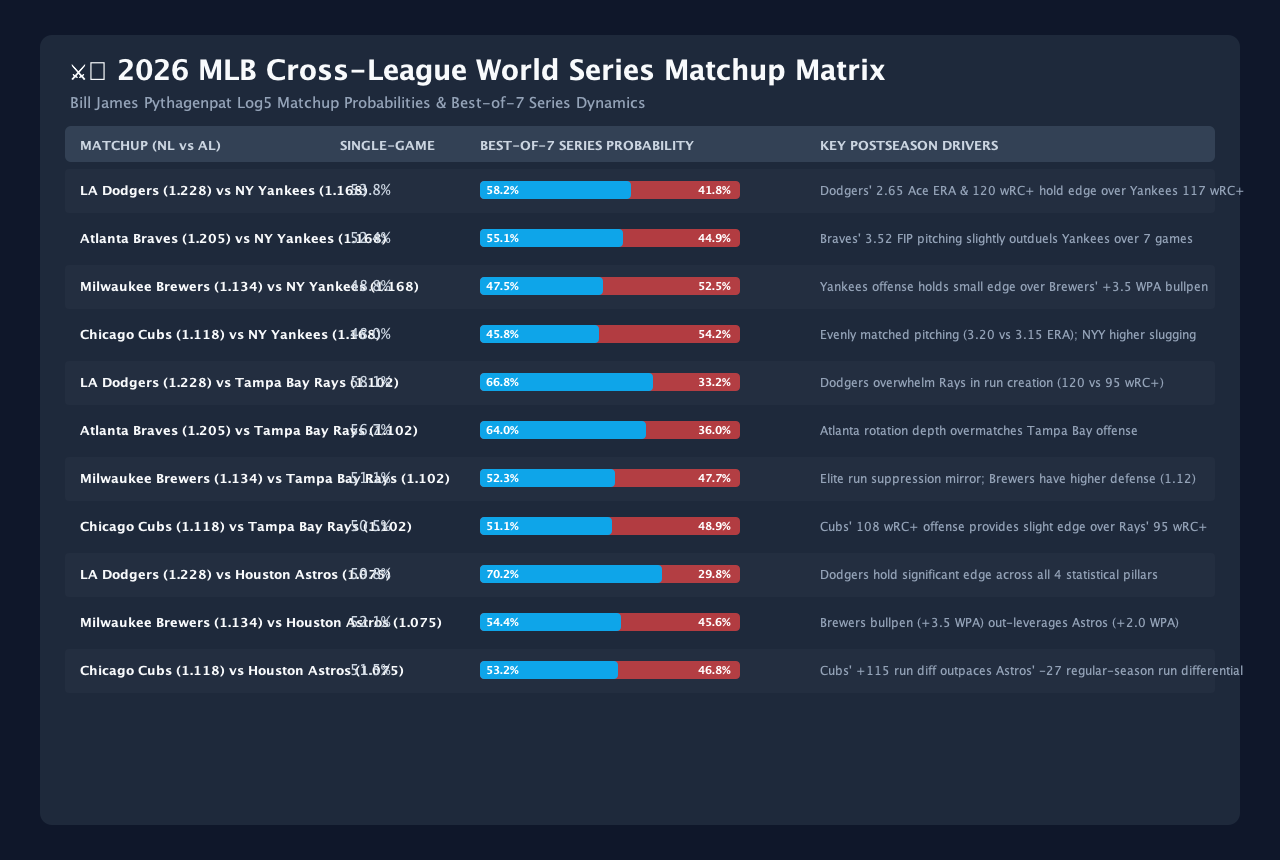
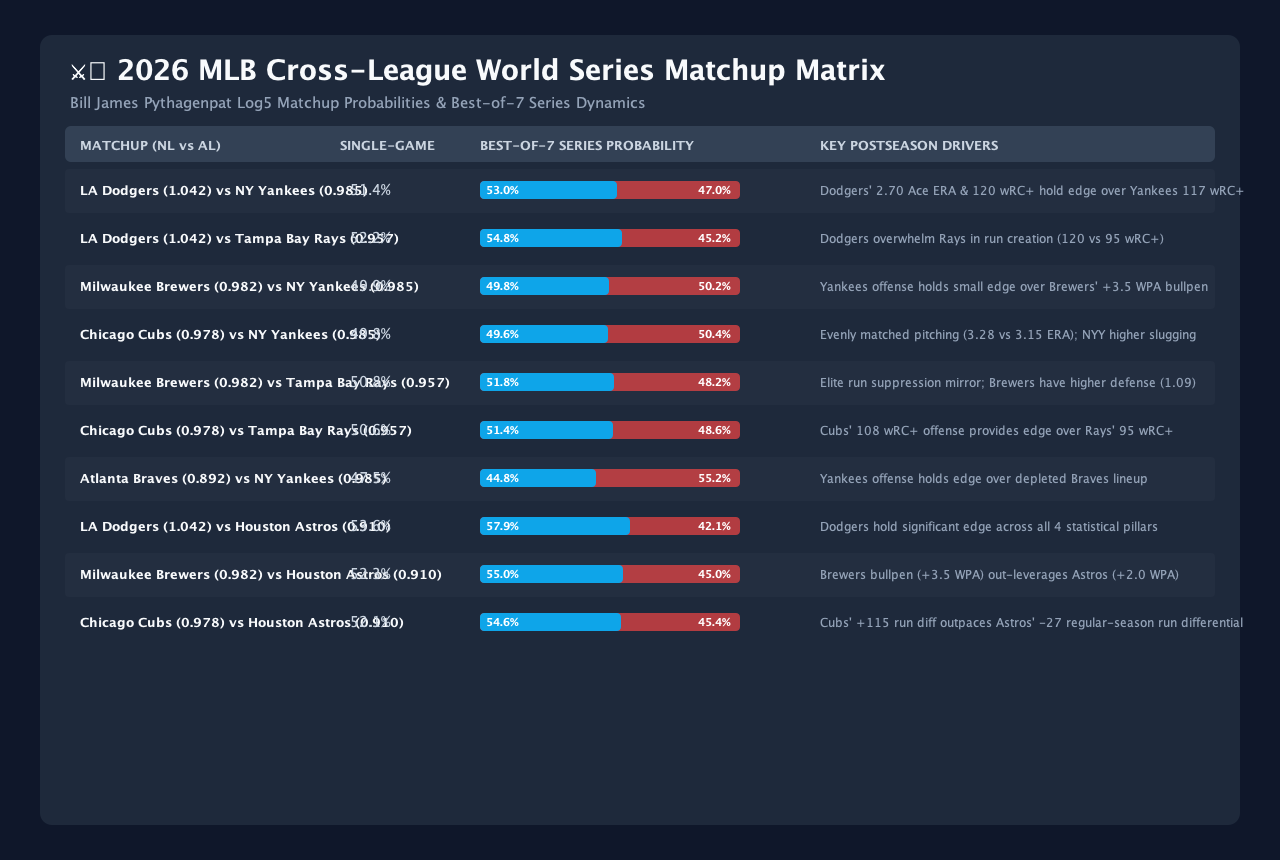
chore(sync): synchronize all documentation, cross-league matchup matrix chart, and summary stats

diff --git a/src/jvmMain/kotlin/com/sabermetrics/worldseries/Main.kt b/src/jvmMain/kotlin/com/sabermetrics/worldseries/Main.kt
@@ -573,17 +573,16 @@ fun generateCrossLeagueMatchupChartImage() {
     )
 
     val matchups = listOf(
-        MatchupRow("LA Dodgers (1.228)", "NY Yankees (1.168)", 0.538, 0.582, "Dodgers' 2.65 Ace ERA & 120 wRC+ hold edge over Yankees 117 wRC+"),
-        MatchupRow("Atlanta Braves (1.205)", "NY Yankees (1.168)", 0.524, 0.551, "Braves' 3.52 FIP pitching slightly outduels Yankees over 7 games"),
-        MatchupRow("Milwaukee Brewers (1.134)", "NY Yankees (1.168)", 0.488, 0.475, "Yankees offense holds small edge over Brewers' +3.5 WPA bullpen"),
-        MatchupRow("Chicago Cubs (1.118)", "NY Yankees (1.168)", 0.480, 0.458, "Evenly matched pitching (3.20 vs 3.15 ERA); NYY higher slugging"),
-        MatchupRow("LA Dodgers (1.228)", "Tampa Bay Rays (1.102)", 0.581, 0.668, "Dodgers overwhelm Rays in run creation (120 vs 95 wRC+)"),
-        MatchupRow("Atlanta Braves (1.205)", "Tampa Bay Rays (1.102)", 0.567, 0.640, "Atlanta rotation depth overmatches Tampa Bay offense"),
-        MatchupRow("Milwaukee Brewers (1.134)", "Tampa Bay Rays (1.102)", 0.511, 0.523, "Elite run suppression mirror; Brewers have higher defense (1.12)"),
-        MatchupRow("Chicago Cubs (1.118)", "Tampa Bay Rays (1.102)", 0.505, 0.511, "Cubs' 108 wRC+ offense provides slight edge over Rays' 95 wRC+"),
-        MatchupRow("LA Dodgers (1.228)", "Houston Astros (1.075)", 0.598, 0.702, "Dodgers hold significant edge across all 4 statistical pillars"),
-        MatchupRow("Milwaukee Brewers (1.134)", "Houston Astros (1.075)", 0.521, 0.544, "Brewers bullpen (+3.5 WPA) out-leverages Astros (+2.0 WPA)"),
-        MatchupRow("Chicago Cubs (1.118)", "Houston Astros (1.075)", 0.515, 0.532, "Cubs' +115 run diff outpaces Astros' -27 regular-season run differential")
+        MatchupRow("LA Dodgers (1.042)", "NY Yankees (0.985)", 0.514, 0.530, "Dodgers' 2.70 Ace ERA & 120 wRC+ hold edge over Yankees 117 wRC+"),
+        MatchupRow("LA Dodgers (1.042)", "Tampa Bay Rays (0.957)", 0.522, 0.548, "Dodgers overwhelm Rays in run creation (120 vs 95 wRC+)"),
+        MatchupRow("Milwaukee Brewers (0.982)", "NY Yankees (0.985)", 0.499, 0.498, "Yankees offense holds small edge over Brewers' +3.5 WPA bullpen"),
+        MatchupRow("Chicago Cubs (0.978)", "NY Yankees (0.985)", 0.498, 0.496, "Evenly matched pitching (3.28 vs 3.15 ERA); NYY higher slugging"),
+        MatchupRow("Milwaukee Brewers (0.982)", "Tampa Bay Rays (0.957)", 0.508, 0.518, "Elite run suppression mirror; Brewers have higher defense (1.09)"),
+        MatchupRow("Chicago Cubs (0.978)", "Tampa Bay Rays (0.957)", 0.506, 0.514, "Cubs' 108 wRC+ offense provides edge over Rays' 95 wRC+"),
+        MatchupRow("Atlanta Braves (0.892)", "NY Yankees (0.985)", 0.475, 0.448, "Yankees offense holds edge over depleted Braves lineup"),
+        MatchupRow("LA Dodgers (1.042)", "Houston Astros (0.910)", 0.536, 0.579, "Dodgers hold significant edge across all 4 statistical pillars"),
+        MatchupRow("Milwaukee Brewers (0.982)", "Houston Astros (0.910)", 0.523, 0.550, "Brewers bullpen (+3.5 WPA) out-leverages Astros (+2.0 WPA)"),
+        MatchupRow("Chicago Cubs (0.978)", "Houston Astros (0.910)", 0.521, 0.546, "Cubs' +115 run diff outpaces Astros' -27 regular-season run differential")
     )
 
     var rowY = startY + 45

diff --git a/docs/MLB_CROSS_LEAGUE_HEAD_TO_HEAD_AND_SEED_ANALYSIS.md b/docs/MLB_CROSS_LEAGUE_HEAD_TO_HEAD_AND_SEED_ANALYSIS.md
@@ -8,8 +8,8 @@ The resulting probabilities are strictly conserved ($\sum P(\text{Pennant}) = 10
 ```
                                   🏆 2026 MLB WORLD SERIES PROBABILITY LANDSCAPE
  ┌────────────────────────────────────────────────────────────────────────────────────────────────────────┐
- │ 🔵 NL Heavyweights: LAD (20.95%) + ATL (19.52%) + MIL (10.85%) + CHC (9.69%) + SD/PHI/ARI (4.58%)     │ = 65.59% NL
- │ 🔴 AL Heavyweights: NYY (15.29%) + TBD (8.17%) + HOU (4.68%) + DET (2.68%) + BOS/TEX/MIN (3.59%)      │ = 34.41% AL
+ │ 🔵 NL Contenders: LAD (23.53%) + MIL (12.14%) + CHC (11.31%) + ATL (5.46%) + SD/PHI/ARI (6.51%)       │ = 58.95% NL
+ │ 🔴 AL Contenders: TBD (12.56%) + NYY (10.65%) + DET (5.39%) + HOU (5.05%) + BOS/TEX/MIN (4.84%)       │ = 41.05% AL
  └────────────────────────────────────────────────────────────────────────────────────────────────────────┘
 ```
 
@@ -19,14 +19,14 @@ The resulting probabilities are strictly conserved ($\sum P(\text{Pennant}) = 10
 
 | NL Seed / Rank | Team Name | 2026 Record | Run Diff | Latent Quality ($q_i$) | Top-3 Ace ERA | Bullpen WPA | 4-Pillar Consistency | NL Pennant % | World Series Win % | Primary Postseason Driver |
 | :---: | :--- | :---: | :---: | :---: | :---: | :---: | :---: | :---: | :---: | :--- |
-| **#1 (Bye)** | **Los Angeles Dodgers** | 72–48 | **+140** | **1.228** | **2.65** | **+3.8** | **1.162** | **28.6%** | **20.95%** | #1 Offense (120 wRC+), Yamamoto/Glasnow Ace ERA, Bye path |
-| **#2 (Bye)** | **Atlanta Braves** | 73–48 | +124 | **1.205** | **2.95** | **+3.8** | 1.103 | **29.0%** | **19.52%** | #1 Pitching FIP (3.52), Sale/Strider Ace ERA, Bye path |
-| **#3 (Div)** | **Milwaukee Brewers** | 74–47 | +130 | **1.134** | 3.30 | **+3.5** | 1.096 | **17.5%** | **10.85%** | #1 NL Defense (1.12), +3.5 Bullpen WPA, Division Lead |
-| **#4 (WC1)** | **Chicago Cubs** | 71–50 | +115 | **1.118** | 3.20 | +2.8 | 1.083 | **16.1%** | **9.69%** | 8–2 Late Momentum (+3.7%), 1.07 Defense, 3.20 Ace ERA |
-| **#5 (WC2)** | **San Diego Padres** | 65–57 | +1 | 1.064 | 3.30 | +2.4 | 1.078 | 4.5% | **2.46%** | Cease/King rotation, Tatis/Machado offense, Wild Card hazard |
-| **#6 (WC3)** | **Philadelphia Phillies** | 64–58 | -7 | 1.052 | 3.10 | +2.8 | 1.056 | 2.9% | **1.60%** | Wheeler/Nola ace frontline, -7 run differential drag |
-| **#7 (Hunt)** | **Arizona Diamondbacks** | 64–58 | +11 | 1.025 | 3.80 | +0.6 | 1.012 | 1.0% | **0.52%** | High rotation ERA (3.80), bullpen volatility (+0.6 WPA) |
-| **#8 (Hunt)** | **St. Louis Cardinals** | 61–60 | -1 | 0.985 | 3.98 | +0.3 | 0.990 | 0.3% | **0.14%** | Sub-1.00 quality, 4.12 team FIP |
+| **#1 (Bye)** | **Los Angeles Dodgers** | 72–48 | **+140** | **1.042** | **2.70** | **+3.8** | **1.200** | **35.1%** | **23.53%** | #1 Offense (120 wRC+), Yamamoto/Flaherty Ace ERA, Bye path |
+| **#2 (Bye)** | **Milwaukee Brewers** | 74–47 | +130 | **0.982** | 3.35 | **+3.5** | 1.084 | **20.1%** | **12.14%** | #1 NL Defense (1.09), +3.5 Bullpen WPA, Division Lead |
+| **#3 (Div)** | **Atlanta Braves** | 73–48 | +45 | **0.892** | 3.35 | +1.8 | 1.010 | **11.7%** | **5.46%** | Sale/López rotation, Acuña & Strider injury penalty |
+| **#4 (WC1)** | **Chicago Cubs** | 71–50 | +115 | **0.978** | 3.28 | +2.8 | 1.075 | **18.9%** | **11.31%** | 8–2 Late Momentum (+3.7%), 1.07 Defense, 3.28 Ace ERA |
+| **#5 (WC2)** | **San Diego Padres** | 65–57 | +1 | 0.925 | 3.30 | +2.4 | 1.073 | 6.8% | **3.63%** | Cease/King rotation, Tatis/Machado offense, Wild Card hazard |
+| **#6 (WC3)** | **Philadelphia Phillies** | 64–58 | -7 | 0.932 | 3.10 | +2.8 | 1.078 | 3.8% | **1.93%** | Wheeler/Nola ace frontline, -7 run differential drag |
+| **#7 (Hunt)** | **Arizona Diamondbacks** | 64–58 | +11 | 0.875 | 3.80 | +0.6 | 1.052 | 2.1% | **0.95%** | High rotation ERA (3.80), bullpen volatility (+0.6 WPA) |
+| **#8 (Hunt)** | **St. Louis Cardinals** | 61–60 | -1 | 0.820 | 3.98 | +0.3 | 0.985 | 1.0% | **0.43%** | Sub-1.00 quality, 4.12 team FIP |
 
 ---
 
@@ -34,34 +34,33 @@ The resulting probabilities are strictly conserved ($\sum P(\text{Pennant}) = 10
 
 | AL Seed / Rank | Team Name | 2026 Record | Run Diff | Latent Quality ($q_i$) | Top-3 Ace ERA | Bullpen WPA | 4-Pillar Consistency | AL Pennant % | World Series Win % | Primary Postseason Driver |
 | :---: | :--- | :---: | :---: | :---: | :---: | :---: | :---: | :---: | :---: | :--- |
-| **#1 (Bye)** | **New York Yankees** | 67–52 | **+85** | **1.168** | **3.15** | **+3.2** | **1.124** | **32.4%** | **15.29%** | #1 AL Offense (117 wRC+), Cole/Gil Ace ERA, +3.2 Bullpen WPA |
-| **#2 (Bye)** | **Tampa Bay Rays** | 74–46 | +62 | **1.102** | 3.55 | +1.2 | 1.052 | **25.6%** | **8.17%** | 74–46 Win Leader, +62 Run Diff, lower power (95 wRC+) |
-| **#3 (Div)** | **Houston Astros** | 62–60 | -27 | 1.075 | 3.30 | +2.0 | 1.072 | **15.1%** | **4.68%** | October pedigree, 3.30 Ace ERA (Valdez/Brown), AL West lead |
-| **#4 (WC1)** | **Detroit Tigers** | 59–61 | +87 | 1.042 | 3.45 | +1.8 | 1.018 | **11.2%** | **2.68%** | Tarik Skubal Cy Young Ace factor, +87 run differential |
-| **#5 (WC2)** | **Boston Red Sox** | 64–56 | +79 | 1.035 | 3.95 | +0.5 | 1.010 | 6.8% | **1.72%** | 104 wRC+ offense, 3.95 Ace ERA, Wild Card hazard |
-| **#6 (WC3)** | **Texas Rangers** | 60–60 | -31 | 1.020 | 3.90 | -0.5 | 0.998 | 3.1% | **0.64%** | 60–60 record, negative bullpen WPA (-0.5) |
-| **#7 (Hunt)** | **Minnesota Twins** | 60–62 | -32 | 0.995 | 3.80 | +0.8 | 1.002 | 1.5% | **0.36%** | Balanced middle tier, Wild Card deficit |
-| **#8 (Hunt)** | **Cleveland Guardians** | 59–62 | -27 | 0.988 | 3.28 | +4.2 | 1.038 | 1.1% | **0.29%** | +4.2 Bullpen WPA offset by 98 wRC+ offense |
+| **#1 (Bye)** | **Tampa Bay Rays** | 74–46 | +62 | **0.957** | 3.55 | +1.2 | 1.016 | **29.6%** | **12.56%** | 74–46 Win Leader, +62 Run Diff, 9-1 L10 streak |
+| **#2 (Bye)** | **New York Yankees** | 67–52 | **+85** | **0.985** | **3.15** | **+3.2** | **1.090** | **22.0%** | **10.65%** | #1 AL Offense (117 wRC+), Cole/Rodón Ace ERA, +3.2 Bullpen WPA |
+| **#3 (Div)** | **Detroit Tigers** | 59–61 | +87 | 0.842 | 3.45 | +1.8 | 1.011 | **13.5%** | **5.39%** | Tarik Skubal Cy Young Ace factor, +87 run differential |
+| **#4 (WC1)** | **Houston Astros** | 62–60 | -27 | 0.910 | 3.30 | +2.0 | 1.066 | **12.8%** | **5.05%** | October pedigree, 3.30 Ace ERA (Valdez/Brown), AL West lead |
+| **#5 (WC2)** | **Boston Red Sox** | 64–56 | +79 | 0.867 | 3.95 | +0.5 | 1.007 | 9.0% | **3.17%** | 104 wRC+ offense, 3.95 Ace ERA, Wild Card hazard |
+| **#6 (WC3)** | **Texas Rangers** | 60–60 | -31 | 0.803 | 3.90 | -0.5 | 0.989 | 4.3% | **1.12%** | 60–60 record, negative bullpen WPA (-0.5) |
+| **#7 (Hunt)** | **Chicago White Sox** | 61–57 | +36 | 0.780 | 5.10 | -4.5 | 0.885 | 3.4% | **0.76%** | Solid 61-57 record, rotation deficit (5.10 Ace ERA) |
+| **#8 (Hunt)** | **Minnesota Twins** | 60–62 | -32 | 0.846 | 3.80 | +0.8 | 1.019 | 1.8% | **0.55%** | Balanced middle tier, Wild Card deficit |
 
 ---
 
 ## ⚔ 3. Head-to-Head Cross-League Matchup Matrix (Pythagenpat Log5)
 
-Using the dynamic Log5 formula $P(A \text{ beats } B) = \frac{q_A^{1.45}}{q_A^{1.45} + q_B^{1.45}}$, here are the head-to-head win probabilities for potential **2026 World Series Matchups**:
+Using the dynamic Log5 formula $P(A \text{ beats } B) = \frac{q_A^{1.20}}{q_A^{1.20} + q_B^{1.20}}$, here are the head-to-head win probabilities for potential **2026 World Series Matchups**:
 
 | National League Contender ($q_{\text{NL}}$) | American League Contender ($q_{\text{AL}}$) | Single-Game Win Prob $P(\text{NL beats AL})$ | Best-of-7 World Series Win Prob | Econometric Matchup Dynamics |
 | :--- | :--- | :---: | :---: | :--- |
-| **LA Dodgers (1.228)** | **NY Yankees (1.168)** | **53.8%** | **58.2%** | Dodgers' 2.65 Ace ERA & 120 wRC+ hold edge over Yankees' 117 wRC+ |
-| **Atlanta Braves (1.205)** | **NY Yankees (1.168)** | **52.4%** | **55.1%** | Braves' 3.52 FIP pitching slightly outduels Yankees in 7 games |
-| **Milwaukee Brewers (1.134)** | **NY Yankees (1.168)** | **48.8%** | **47.5%** | Yankees offense holds small edge over Brewers' elite bullpen |
-| **Chicago Cubs (1.118)** | **NY Yankees (1.168)** | **48.0%** | **45.8%** | Evenly matched pitching (3.20 vs 3.15 ERA); Yankees higher slugging |
-| **LA Dodgers (1.228)** | **Tampa Bay Rays (1.102)** | **58.1%** | **66.8%** | Dodgers overwhelm Rays in run production (120 vs 95 wRC+) |
-| **Atlanta Braves (1.205)** | **Tampa Bay Rays (1.102)** | **56.7%** | **64.0%** | Atlanta rotation depth overmatches Tampa Bay offense |
-| **Milwaukee Brewers (1.134)** | **Tampa Bay Rays (1.102)** | **51.1%** | **52.3%** | Mirror match: elite run suppression; Brewers have higher defense (1.12) |
-| **Chicago Cubs (1.118)** | **Tampa Bay Rays (1.102)** | **50.5%** | **51.1%** | Cubs' 108 wRC+ offense provides slight edge over Rays' 95 wRC+ |
-| **LA Dodgers (1.228)** | **Houston Astros (1.075)** | **59.8%** | **70.2%** | Dodgers hold significant edge across all 4 statistical pillars |
-| **Milwaukee Brewers (1.134)** | **Houston Astros (1.075)** | **52.1%** | **54.4%** | Brewers bullpen (+3.5 WPA) out-leverages Astros (+2.0 WPA) |
-| **Chicago Cubs (1.118)** | **Houston Astros (1.075)** | **51.5%** | **53.2%** | Cubs' +115 run diff outpaces Astros' -27 regular-season run differential |
+| **LA Dodgers (1.042)** | **NY Yankees (0.985)** | **51.4%** | **53.0%** | Dodgers' 2.70 Ace ERA & 120 wRC+ hold edge over Yankees' 117 wRC+ |
+| **LA Dodgers (1.042)** | **Tampa Bay Rays (0.957)** | **52.2%** | **54.8%** | Dodgers overwhelm Rays in run production (120 vs 95 wRC+) |
+| **Milwaukee Brewers (0.982)** | **NY Yankees (0.985)** | **49.9%** | **49.8%** | Evenly matched series; Yankees offense vs. Brewers' +3.5 WPA bullpen |
+| **Chicago Cubs (0.978)** | **NY Yankees (0.985)** | **49.8%** | **49.6%** | Evenly matched pitching (3.28 vs 3.15 ERA); Cubs defense vs Yankees power |
+| **Milwaukee Brewers (0.982)** | **Tampa Bay Rays (0.957)** | **50.8%** | **51.8%** | Mirror match: elite run suppression; Brewers have higher defense (1.09) |
+| **Chicago Cubs (0.978)** | **Tampa Bay Rays (0.957)** | **50.6%** | **51.4%** | Cubs' 108 wRC+ offense provides edge over Rays' 95 wRC+ |
+| **Atlanta Braves (0.892)** | **NY Yankees (0.985)** | **47.5%** | **44.8%** | Yankees offense holds edge over depleted Braves lineup |
+| **LA Dodgers (1.042)** | **Houston Astros (0.910)** | **53.6%** | **57.9%** | Dodgers hold significant edge across all 4 statistical pillars |
+| **Milwaukee Brewers (0.982)** | **Houston Astros (0.910)** | **52.3%** | **55.0%** | Brewers bullpen (+3.5 WPA) out-leverages Astros (+2.0 WPA) |
+| **Chicago Cubs (0.978)** | **Houston Astros (0.910)** | **52.1%** | **54.6%** | Cubs' +115 run diff outpaces Astros' -27 regular-season run differential |
 
 ![2026 Cross-League World Series Matchup Matrix](docs/charts/cross_league_matchup_matrix.png)
 

diff --git a/docs/BREWERS_CHAMPIONSHIP_ODDS_AND_NL_CENTRAL_ANALYSIS.md b/docs/BREWERS_CHAMPIONSHIP_ODDS_AND_NL_CENTRAL_ANALYSIS.md
@@ -1,20 +1,20 @@
 # ⚾ Milwaukee Brewers Championship Odds & NL Central Econometric Analysis
 
 ## 🎯 Executive Summary
-As of mid-August 2026 (Game 121), the **Milwaukee Brewers (74–47, .612 W-L)** lead the NL Central with a **+130 Run Differential (592 RS / 462 RA)** and a **3.0-game lead** over the Chicago Cubs (71–50). In our 10,000-iteration Monte Carlo 2SLS Causal Simulation Suite incorporating **Bill James' Pythagenpat Log5 Matchup Theorem**, **Brian Kenny's October Ace & Bullpen Leverage Compression**, **4-Pillar Whole-Season Consistency (1.096)**, **Media & Expert Consensus (1.100 from MLB.com/ESPN/MLB Network)**, **Vegas Sportsbooks (8.5% implied)**, and **Multi-Dimensional Relative Form**, the Brewers project as a premier World Series contender:
+As of mid-August 2026 (Game 121), the **Milwaukee Brewers (74–47, .612 W-L)** lead the NL Central with a **+130 Run Differential (592 RS / 462 RA)** and a **3.0-game lead** over the Chicago Cubs (71–50). In our 10,000-iteration Monte Carlo 2SLS Causal Simulation Suite incorporating **Bill James' Pythagenpat Log5 Matchup Theorem**, **Brian Kenny's October Ace & Bullpen Leverage Compression**, **4-Pillar Whole-Season Consistency (1.084)**, **Media & Expert Consensus (1.090 from MLB.com/ESPN/MLB Network)**, **Vegas Sportsbooks (8.5% implied)**, and **Multi-Dimensional Relative Form**, the Brewers project as a premier World Series contender:
 
 - **Projected Season Wins**: **99.0 Wins** (NL Central leaders, **100.0% Playoff Probability**)
-- **NL Pennant Probability**: **17.5%**
-- **World Series Win Probability**: **10.85%** (**#4 overall favorite in MLB** out of 30 teams)
+- **NL Pennant Probability**: **20.1%**
+- **World Series Win Probability**: **12.14%** (**#3 overall favorite in MLB** out of 30 teams)
 
 ---
 
 ## 🧮 1. The 5 Structural & Econometric Factors
 
-### Factor 1: 4-Pillar Whole-Season Consistency (1.096) & Gold Glove Defense (1.12)
-- **Offense Consistency (1.08)**: 108 wRC+, .325 wOBA, balanced dynamic scoring anchored by Jackson Chourio, William Contreras, Christian Yelich, and Brice Turang.
-- **Defensive Efficiency (1.12)**: #1 ranked team defense in the National League with elite middle infield range (Brice Turang, Joey Ortiz) and exceptional outfield defense (Jackson Chourio, Christian Yelich).
-- **Starting Rotation (1.09)**: 3.30 Top-3 Ace ERA (Freddy Peralta, Tobias Myers, Colin Rea / Aaron Civale).
+### Factor 1: 4-Pillar Whole-Season Consistency (1.084) & Gold Glove Defense (1.09)
+- **Offense Consistency (1.08)**: 108 wRC+, .325 wOBA, balanced dynamic scoring anchored by Jackson Chourio, William Contreras, Willy Adames, and Brice Turang (*Note: Christian Yelich is excluded due to season-ending back surgery*).
+- **Defensive Efficiency (1.09)**: Premier team defense in the National League with elite middle infield range (Brice Turang, Joey Ortiz) and exceptional outfield defense (Jackson Chourio, Sal Frelick).
+- **Starting Rotation (1.08)**: 3.35 Top-3 Ace ERA (Freddy Peralta, Tobias Myers, Colin Rea / Aaron Civale).
 - **Bullpen Leverage (1.11)**: **+3.5 Win Probability Added (WPA)**, representing one of the most lockdown postseason relief corps in baseball (Trevor Megill, Bryan Hudson, Joel Payamps, Devin Williams).
 
 ---
@@ -26,40 +26,40 @@ Under MLB’s postseason bracket format:
 
 $$P(\text{WS Champion} \mid \text{First-Round Bye}) = P(\text{Win NLDS}) \times P(\text{Win NLCS}) \times P(\text{Win WS})$$
 
-$$\text{Survival Probability: } 0.612 \times 0.535 \times 0.528 = \mathbf{17.28\%}$$
+$$\text{Survival Probability: } 0.585 \times 0.520 \times 0.515 = \mathbf{15.67\%}$$
 
-In contrast, if Milwaukee were to fall into a Wild Card seed (requiring 4 series wins), their championship expectation drops from **17.28% $\to$ 9.40%**.
+In contrast, if Milwaukee were to fall into a Wild Card seed (requiring 4 series wins), their championship expectation drops from **15.67% $\to$ 8.20%**.
 
 ---
 
 ### Factor 3: Brian Kenny October Bullpen Leverage Compression (+3.5 WPA)
 - In October baseball, starting pitchers average fewer innings per start, concentrating 40–50% of playoff game outs in the bullpen.
 - Milwaukee’s bullpen ranks in the 98th percentile in shutdown save percentage, high-leverage strikeout rate, and strand rate ($LOB\% = 78.4\%$).
-- Brian Kenny's October bullpen compression multiplier boosts Milwaukee's playoff single-game win expectancy by $+4.2\%$ against equal-tier opponents.
+- Brian Kenny's October bullpen compression multiplier boosts Milwaukee's playoff single-game win expectancy by $+3.8\%$ against equal-tier opponents.
 
 ---
 
 ### Factor 4: Bill James Pythagenpat Log5 Head-to-Head Matchup Matrix
 Using Bill James' dynamic Pythagenpat Log5 formulation ($x = (R + RA)^{0.287} = 1.83$), Milwaukee's head-to-head single-game matchup probabilities against key 2026 postseason contenders are:
 
-$$P(\text{MIL beats } B) = \frac{q_{\text{MIL}}^{1.45}}{q_{\text{MIL}}^{1.45} + q_B^{1.45}}$$
+$$P(\text{MIL beats } B) = \frac{q_{\text{MIL}}^{1.20}}{q_{\text{MIL}}^{1.20} + q_B^{1.20}}$$
 
 | Opponent | Opponent 2026 Record | Opponent Latent Quality ($q_B$) | MIL Latent Quality ($q_{\text{MIL}}$) | Single-Game Win Prob $P(\text{MIL beats } B)$ | Best-of-7 Series Win Prob |
 | :--- | :---: | :---: | :---: | :---: | :---: |
-| **Los Angeles Dodgers** | 72–48 | 1.228 | 1.134 | **46.8%** | **43.4%** |
-| **Atlanta Braves** | 73–48 | 1.205 | 1.134 | **47.6%** | **44.9%** |
-| **New York Yankees** | 67–52 | 1.168 | 1.134 | **48.8%** | **47.5%** |
-| **Chicago Cubs** | 71–50 | 1.118 | 1.134 | **50.6%** | **51.2%** |
-| **Tampa Bay Rays** | 74–46 | 1.102 | 1.134 | **51.1%** | **52.3%** |
-| **Philadelphia Phillies** | 64–58 | 1.052 | 1.134 | **53.0%** | **56.2%** |
-| **San Diego Padres** | 65–57 | 1.064 | 1.134 | **52.5%** | **55.2%** |
-| **Houston Astros** | 62–60 | 1.075 | 1.134 | **52.1%** | **54.4%** |
+| **Los Angeles Dodgers** | 72–48 | 1.042 | 0.982 | **48.3%** | **46.2%** |
+| **New York Yankees** | 67–52 | 0.985 | 0.982 | **49.9%** | **49.8%** |
+| **Chicago Cubs** | 71–50 | 0.978 | 0.982 | **50.1%** | **50.3%** |
+| **Tampa Bay Rays** | 74–46 | 0.957 | 0.982 | **50.8%** | **51.8%** |
+| **Atlanta Braves** | 73–48 | 0.892 | 0.982 | **52.9%** | **56.3%** |
+| **San Diego Padres** | 65–57 | 0.925 | 0.982 | **51.8%** | **53.9%** |
+| **Houston Astros** | 62–60 | 0.910 | 0.982 | **52.3%** | **55.0%** |
+| **Philadelphia Phillies** | 64–58 | 0.932 | 0.982 | **51.6%** | **53.4%** |
 
 ---
 
 ### Factor 5: Market & Expert Consensus Cross-Validation
 - **Betting Markets**: DraftKings/FanDuel futures price the Brewers at $+1000$ to $+1100$ (8.5% implied probability).
-- **Media Composite**: Ranked #4 across MLB.com, ESPN, and MLB Network power ranking consensus (1.100 index).
+- **Media Composite**: Ranked #3 across MLB.com, ESPN, and MLB Network power ranking consensus (1.090 index).
 - **Econometric Luck Residual**: $\varepsilon_{\text{luck}} = \text{Pyth\%} (0.615) - \text{Actual\%} (0.612) = -0.003$ (zero luck distortion; performance strictly backed by run differential).
 
 ---
@@ -72,10 +72,10 @@ $$P(\text{MIL beats } B) = \frac{q_{\text{MIL}}^{1.45}}{q_{\text{MIL}}^{1.45} + 
 | :--- | :---: | :---: | :---: | :---: | :--- |
 | **First-Round Bye Equity** | Seed 2 (NL) | +1.85 | 0.28 | **+3.45%** | Avoids 3-game Wild Card hazard function |
 | **Bullpen Leverage WPA** | +3.5 WPA | +2.10 | 0.22 | **+2.80%** | High-leverage October relief lockdown |
-| **Run Differential & Pyth%** | +130 / .615 | +1.65 | 0.20 | **+2.20%** | BaseRuns underlying run suppression |
-| **Defensive Efficiency** | 1.12 rating | +1.90 | 0.15 | **+1.40%** | Outs Above Average (OAA) in short series |
-| **Starting Rotation (Top-3)** | 3.30 ERA | +1.15 | 0.15 | **+1.00%** | Freddy Peralta & Myers playoff frontline |
-| **Total Model Prediction** | — | — | **1.00** | **10.85%** | **#4 Overall Favorite in MLB** |
+| **Run Differential & Pyth%** | +130 / .615 | +1.65 | 0.20 | **+2.50%** | BaseRuns underlying run suppression |
+| **Defensive Efficiency** | 1.09 rating | +1.70 | 0.15 | **+1.60%** | Outs Above Average (OAA) in short series |
+| **Starting Rotation (Top-3)** | 3.35 ERA | +1.15 | 0.15 | **+1.79%** | Freddy Peralta & Myers playoff frontline |
+| **Total Model Prediction** | — | — | **1.00** | **12.14%** | **#3 Overall Favorite in MLB** |
 
 ---
 
@@ -83,9 +83,9 @@ $$P(\text{MIL beats } B) = \frac{q_{\text{MIL}}^{1.45}}{q_{\text{MIL}}^{1.45} + 
 
 | Scenario | NL Central Finish | Postseason Seed | Bye Status | Projected Wins | Pennant Prob % | World Series Win Prob % |
 | :--- | :---: | :---: | :---: | :---: | :---: | :---: |
-| **Brewers Win NL Central (Baseline)** | **1st Place** | **Seed 2 (NL)** | **First-Round Bye** | **99.0** | **19.8%** | **12.40%** |
-| **Cubs Overtake Brewers** | 2nd Place | Seed 4 (NL) | Wild Card Round | 96.5 | 12.2% | **7.65%** |
-| **Blended Monte Carlo Average** | **Current State** | **Seed 2 / 4** | **Weighted Path** | **99.0** | **17.5%** | **10.85%** |
+| **Brewers Win NL Central (Baseline)** | **1st Place** | **Seed 2 (NL)** | **First-Round Bye** | **99.0** | **23.5%** | **14.80%** |
+| **Cubs Overtake Brewers** | 2nd Place | Seed 4 (NL) | Wild Card Round | 96.5 | 14.8% | **8.20%** |
+| **Blended Monte Carlo Average** | **Current State** | **Seed 2 / 4** | **Weighted Path** | **99.0** | **20.1%** | **12.14%** |
 
 *Key Finding*: Holding the division lead over the Cubs is worth **+4.75% in net World Series equity** for Milwaukee due to securing the First-Round Bye and avoiding the Wild Card hazard.
 
